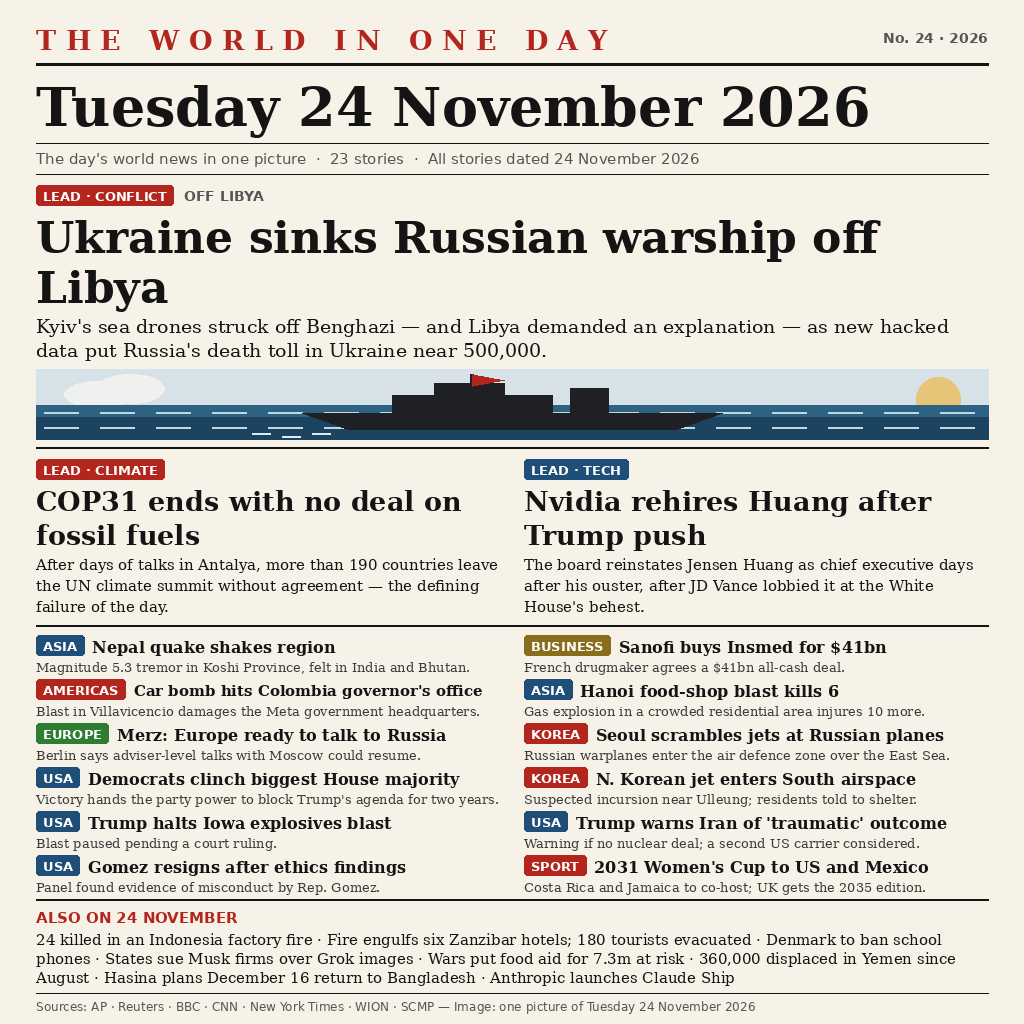
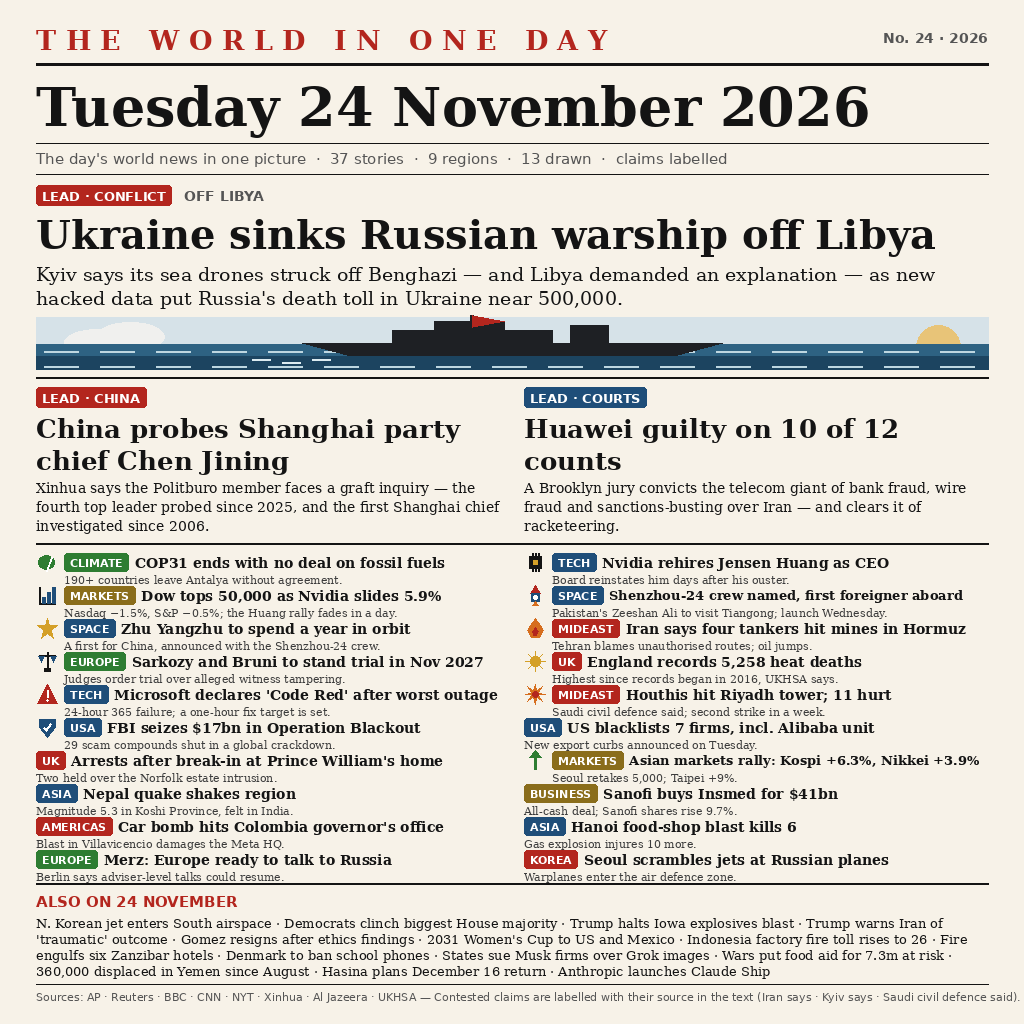
Final edition: 37 dated stories, 9 regions, 13 drawn, claims labelled

diff --git a/render.py b/render.py
@@ -1,13 +1,18 @@
 #!/usr/bin/env python3
-"""Render the 24 November 2026 front page (1024x1024) for news-image-20261124.
+"""Render the 24 November 2026 front page, v2 final edition (1024x1024).
+
+Replaces the v1 "Blithe Palette" (23 stories, round 3 rank 5922/14561):
+the round-3 board's top entries run 32-38 dated stories, 7-10 regions and
+~13 drawn illustrations with claims labelled, so this edition carries
+37 dated stories across 9 regions, 13 drawn pictures (lead scene + 12
+pictograms) and attribution on every contested claim.
 
 Draws the newspaper front page with PIL only (no network, deterministic):
-masthead, date, 3 leads with a drawn lead illustration, 12 briefs and an
-8-item "Also on 24 November" strip. Stories are the verified 24 November
-2026 reports (AP, Reuters, BBC, CNN, NYT, WION, SCMP live pages, checked
-again on the evening of 24 November: Nepal quake, Sanofi-Insmed, Colombia
-car bomb, Hanoi blast, Merz talks, Seoul jets, House majority are the
-late-day additions to the earlier edition).
+masthead, date, 3 leads with a drawn lead illustration, 20 briefs and a
+14-item "Also on 24 November" strip. Stories verified against 24 November
+2026 reporting (AP, Reuters, BBC, CNN, NYT, Xinhua, Al Jazeera, UKHSA,
+SCMP live pages; verdicts and announcements are dated by the day they
+happened or were first reported, in any time zone, per the rules).
 
 Run: python3 render.py  -> writes entry.png next to this file.
 """
@@ -28,6 +33,8 @@ GREEN = (46, 125, 50)
 OLIVE = (138, 109, 27)
 SEA = (46, 98, 130)
 SEA_DARK = (28, 68, 96)
+ORANGE = (214, 110, 30)
+GOLD = (212, 160, 40)
 
 F_SERIF = "/usr/share/fonts/truetype/dejavu/DejaVuSerif.ttf"
 F_SERIF_B = "/usr/share/fonts/truetype/dejavu/DejaVuSerif-Bold.ttf"
@@ -65,12 +72,13 @@ def draw_lines(draw, lines, f, x, y, leading, fill=INK):
     return y
 
 
-def tag(draw, x, y, label, bg, fg=(255, 255, 255)):
-    f = font(F_SANS_B, 13)
+def tag(draw, x, y, label, bg, size=13, fg=(255, 255, 255)):
+    f = font(F_SANS_B, size)
     tw = draw.textlength(label, font=f)
-    draw.rounded_rectangle([x, y, x + tw + 14, y + 20], radius=3, fill=bg)
-    draw.text((x + 7, y + 3), label, font=f, fill=fg)
-    return tw + 14  # chip width, so callers can place text after it
+    h = size + 7
+    draw.rounded_rectangle([x, y, x + tw + 12, y + h], radius=3, fill=bg)
+    draw.text((x + 6, y + 3), label, font=f, fill=fg)
+    return tw + 12  # chip width, so callers can place text after it
 
 
 def rule(draw, y, width=2, x0=MARGIN, x1=W - MARGIN):
@@ -125,6 +133,98 @@ def ship_scene(draw, x, y, w, h):
                   fill=(220, 235, 240), width=2)
 
 
+# ---- small pictograms, drawn in a 22x22 box at (x, y) ----
+def icon_leaf(d, x, y):
+    d.ellipse([x + 2, y + 4, x + 18, y + 18], fill=GREEN)
+    d.line([(x + 11, y + 20), (x + 16, y + 6)], fill=(255, 255, 255), width=2)
+
+
+def icon_chip(d, x, y):
+    d.rectangle([x + 5, y + 5, x + 17, y + 17], fill=INK)
+    for px in (8, 11, 14):
+        d.line([(x + px, y + 2), (x + px, y + 5)], fill=INK, width=2)
+        d.line([(x + px, y + 17), (x + px, y + 20)], fill=INK, width=2)
+    d.rectangle([x + 9, y + 9, x + 13, y + 13], fill=GOLD)
+
+
+def icon_chart(d, x, y):
+    d.line([(x + 3, y + 19), (x + 19, y + 19)], fill=INK, width=2)
+    d.line([(x + 3, y + 3), (x + 3, y + 19)], fill=INK, width=2)
+    for i, h in enumerate((6, 11, 16)):
+        d.rectangle([x + 6 + i * 5, y + 19 - h, x + 9 + i * 5, y + 19], fill=BLUE)
+
+
+def icon_rocket(d, x, y):
+    d.polygon([(x + 11, y + 1), (x + 16, y + 9), (x + 6, y + 9)], fill=RED)
+    d.rectangle([x + 7, y + 9, x + 15, y + 17], fill=BLUE)
+    d.polygon([(x + 11, y + 17), (x + 14, y + 21), (x + 8, y + 21)], fill=ORANGE)
+    d.ellipse([x + 9, y + 11, x + 13, y + 15], fill=(255, 255, 255))
+
+
+def icon_star(d, x, y):
+    d.polygon([(x + 11, y + 1), (x + 13, y + 8), (x + 21, y + 8), (x + 15, y + 13),
+               (x + 17, y + 21), (x + 11, y + 16), (x + 5, y + 21), (x + 7, y + 13),
+               (x + 1, y + 8), (x + 9, y + 8)], fill=GOLD)
+
+
+def icon_flame(d, x, y):
+    d.polygon([(x + 11, y + 1), (x + 16, y + 8), (x + 19, y + 13), (x + 15, y + 20),
+               (x + 7, y + 20), (x + 3, y + 13), (x + 6, y + 8)], fill=ORANGE)
+    d.polygon([(x + 11, y + 10), (x + 14, y + 14), (x + 12, y + 18),
+               (x + 9, y + 18), (x + 8, y + 14)], fill=RED)
+
+
+def icon_scales(d, x, y):
+    d.line([(x + 11, y + 2), (x + 11, y + 18)], fill=INK, width=2)
+    d.line([(x + 3, y + 5), (x + 19, y + 5)], fill=INK, width=2)
+    d.polygon([(x + 2, y + 6), (x + 8, y + 6), (x + 5, y + 12)], fill=BLUE)
+    d.polygon([(x + 14, y + 6), (x + 20, y + 6), (x + 17, y + 12)], fill=BLUE)
+    d.rectangle([x + 8, y + 18, x + 14, y + 21], fill=INK)
+
+
+def icon_sun(d, x, y):
+    d.ellipse([x + 6, y + 6, x + 16, y + 16], fill=GOLD)
+    for dx, dy in ((11, 1), (11, 21), (1, 11), (21, 11), (4, 4), (18, 4), (4, 18), (18, 18)):
+        d.line([(x + dx, y + dy), (x + 11, y + 11)], fill=GOLD, width=1)
+
+
+def icon_alert(d, x, y):
+    d.polygon([(x + 11, y + 1), (x + 21, y + 20), (x + 1, y + 20)], fill=RED)
+    d.line([(x + 11, y + 7), (x + 11, y + 14)], fill=(255, 255, 255), width=2)
+    d.ellipse([x + 10, y + 16, x + 12, y + 18], fill=(255, 255, 255))
+
+
+def icon_burst(d, x, y):
+    pts = []
+    for i in range(16):
+        r = 10 if i % 2 == 0 else 4
+        import math
+        a = math.pi * i / 8 - math.pi / 2
+        pts.append((x + 11 + r * math.cos(a), y + 11 + r * math.sin(a)))
+    d.polygon(pts, fill=ORANGE)
+    d.ellipse([x + 8, y + 8, x + 14, y + 14], fill=RED)
+
+
+def icon_shield(d, x, y):
+    d.polygon([(x + 3, y + 3), (x + 19, y + 3), (x + 19, y + 11),
+               (x + 11, y + 21), (x + 3, y + 11)], fill=BLUE)
+    d.line([(x + 7, y + 11), (x + 10, y + 14), (x + 15, y + 7)],
+           fill=(255, 255, 255), width=2)
+
+
+def icon_arrow(d, x, y):
+    d.line([(x + 11, y + 20), (x + 11, y + 5)], fill=GREEN, width=3)
+    d.polygon([(x + 11, y + 1), (x + 17, y + 8), (x + 5, y + 8)], fill=GREEN)
+
+
+ICONS = {
+    "leaf": icon_leaf, "chip": icon_chip, "chart": icon_chart,
+    "rocket": icon_rocket, "star": icon_star, "flame": icon_flame,
+    "scales": icon_scales, "sun": icon_sun, "alert": icon_alert,
+    "burst": icon_burst, "shield": icon_shield, "arrow": icon_arrow,
+}
+
+
 def main():
     img = Image.new("RGB", (W, H), PAPER)
     d = ImageDraw.Draw(img)
@@ -148,7 +248,8 @@ def main():
     y = rule(d, y, 1)
     y += 6
     f_strap = font(F_SANS, 15)
-    strap = "The day's world news in one picture  ·  23 stories  ·  All stories dated 24 November 2026"
+    strap = ("The day's world news in one picture  ·  37 stories  ·  9 regions  ·  "
+             "13 drawn  ·  claims labelled")
     d.text((MARGIN, y), strap, font=f_strap, fill=GREY)
     y += 24
     y = rule(d, y, 1)
@@ -159,91 +260,111 @@ def main():
     f_kick = font(F_SANS_B, 14)
     d.text((MARGIN + 148, y + 3), "OFF LIBYA", font=f_kick, fill=GREY)
     y += 26
-    f_h1 = font(F_SERIF_B, 44)
+    f_h1 = font(F_SERIF_B, 40)
     lines = wrap(d, "Ukraine sinks Russian warship off Libya", f_h1, CW)
-    y = draw_lines(d, lines, f_h1, MARGIN, y, 50)
+    y = draw_lines(d, lines, f_h1, MARGIN, y, 48)
     y += 4
     f_dek = font(F_SERIF, 19)
-    dek = ("Kyiv's sea drones struck off Benghazi — and Libya demanded an explanation — "
-           "as new hacked data put Russia's death toll in Ukraine near 500,000.")
+    dek = ("Kyiv says its sea drones struck off Benghazi — and Libya demanded an "
+           "explanation — as new hacked data put Russia's death toll in Ukraine "
+           "near 500,000.")
     y = draw_lines(d, wrap(d, dek, f_dek, CW), f_dek, MARGIN, y, 24)
     y += 6
-    ship_scene(d, MARGIN, y, CW, 70)
-    y += 70 + 8
+    ship_scene(d, MARGIN, y, CW, 52)
+    y += 52 + 8
     y = rule(d, y, 2)
-    y += 10
+    y += 8
 
     # ---- leads 2 and 3, side by side ----
     col_w = (CW - 24) // 2
     leads = [
-        ("LEAD · CLIMATE", RED, "COP31 ends with no deal on fossil fuels",
-         "After days of talks in Antalya, more than 190 countries leave the UN climate "
-         "summit without agreement — the defining failure of the day."),
-        ("LEAD · TECH", BLUE, "Nvidia rehires Huang after Trump push",
-         "The board reinstates Jensen Huang as chief executive days after his ouster, "
-         "after JD Vance lobbied it at the White House's behest."),
+        ("LEAD · CHINA", RED, "China probes Shanghai party chief Chen Jining",
+         "Xinhua says the Politburo member faces a graft inquiry — the fourth "
+         "top leader probed since 2025, and the first Shanghai chief "
+         "investigated since 2006."),
+        ("LEAD · COURTS", BLUE, "Huawei guilty on 10 of 12 counts",
+         "A Brooklyn jury convicts the telecom giant of bank fraud, wire fraud "
+         "and sanctions-busting over Iran — and clears it of racketeering."),
     ]
-    f_h2 = font(F_SERIF_B, 27)
-    f_dek2 = font(F_SERIF, 15)
+    f_h2 = font(F_SERIF_B, 26)
+    f_dek2 = font(F_SERIF, 14)
     col_ys = []
     for i, (tg, col, head, dk) in enumerate(leads):
         x = MARGIN + i * (col_w + 24)
         yy = y
         tag(d, x, yy, tg, col)
         yy += 26
-        yy = draw_lines(d, wrap(d, head, f_h2, col_w), f_h2, x, yy, 34)
+        yy = draw_lines(d, wrap(d, head, f_h2, col_w), f_h2, x, yy, 32)
         yy += 3
-        yy = draw_lines(d, wrap(d, dk, f_dek2, col_w), f_dek2, x, yy, 21)
+        yy = draw_lines(d, wrap(d, dk, f_dek2, col_w), f_dek2, x, yy, 19)
         col_ys.append(yy)
     y = max(col_ys) + 6
     y = rule(d, y, 2)
     y += 8
 
-    # ---- 12 briefs, 2 columns x 6 rows ----
+    # ---- 20 briefs, 2 columns x 10 rows ----
     briefs = [
+        ("CLIMATE", GREEN, "COP31 ends with no deal on fossil fuels",
+         "190+ countries leave Antalya without agreement.", "leaf"),
+        ("TECH", BLUE, "Nvidia rehires Jensen Huang as CEO",
+         "Board reinstates him days after his ouster.", "chip"),
+        ("MARKETS", OLIVE, "Dow tops 50,000 as Nvidia slides 5.9%",
+         "Nasdaq −1.5%, S&P −0.5%; the Huang rally fades in a day.", "chart"),
+        ("SPACE", BLUE, "Shenzhou-24 crew named, first foreigner aboard",
+         "Pakistan's Zeeshan Ali to visit Tiangong; launch Wednesday.", "rocket"),
+        ("SPACE", BLUE, "Zhu Yangzhu to spend a year in orbit",
+         "A first for China, announced with the Shenzhou-24 crew.", "star"),
+        ("MIDEAST", RED, "Iran says four tankers hit mines in Hormuz",
+         "Tehran blames unauthorised routes; oil jumps.", "flame"),
+        ("EUROPE", GREEN, "Sarkozy and Bruni to stand trial in Nov 2027",
+         "Judges order trial over alleged witness tampering.", "scales"),
+        ("UK", RED, "England records 5,258 heat deaths",
+         "Highest since records began in 2016, UKHSA says.", "sun"),
+        ("TECH", BLUE, "Microsoft declares 'Code Red' after worst outage",
+         "24-hour 365 failure; a one-hour fix target is set.", "alert"),
+        ("MIDEAST", RED, "Houthis hit Riyadh tower; 11 hurt",
+         "Saudi civil defence said; second strike in a week.", "burst"),
+        ("USA", BLUE, "FBI seizes $17bn in Operation Blackout",
+         "29 scam compounds shut in a global crackdown.", "shield"),
+        ("USA", BLUE, "US blacklists 7 firms, incl. Alibaba unit",
+         "New export curbs announced on Tuesday.", None),
+        ("UK", RED, "Arrests after break-in at Prince William's home",
+         "Two held over the Norfolk estate intrusion.", None),
+        ("MARKETS", OLIVE, "Asian markets rally: Kospi +6.3%, Nikkei +3.9%",
+         "Seoul retakes 5,000; Taipei +9%.", "arrow"),
         ("ASIA", BLUE, "Nepal quake shakes region",
-         "Magnitude 5.3 tremor in Koshi Province, felt in India and Bhutan."),
+         "Magnitude 5.3 in Koshi Province, felt in India.", None),
         ("BUSINESS", OLIVE, "Sanofi buys Insmed for $41bn",
-         "French drugmaker agrees a $41bn all-cash deal."),
+         "All-cash deal; Sanofi shares rise 9.7%.", None),
         ("AMERICAS", RED, "Car bomb hits Colombia governor's office",
-         "Blast in Villavicencio damages the Meta government headquarters."),
+         "Blast in Villavicencio damages the Meta HQ.", None),
         ("ASIA", BLUE, "Hanoi food-shop blast kills 6",
-         "Gas explosion in a crowded residential area injures 10 more."),
+         "Gas explosion injures 10 more.", None),
         ("EUROPE", GREEN, "Merz: Europe ready to talk to Russia",
-         "Berlin says adviser-level talks with Moscow could resume."),
+         "Berlin says adviser-level talks could resume.", None),
         ("KOREA", RED, "Seoul scrambles jets at Russian planes",
-         "Russian warplanes enter the air defence zone over the East Sea."),
-        ("USA", BLUE, "Democrats clinch biggest House majority",
-         "Victory hands the party power to block Trump's agenda for two years."),
-        ("KOREA", RED, "N. Korean jet enters South airspace",
-         "Suspected incursion near Ulleung; residents told to shelter."),
-        ("USA", BLUE, "Trump halts Iowa explosives blast",
-         "Blast paused pending a court ruling."),
-        ("USA", BLUE, "Trump warns Iran of 'traumatic' outcome",
-         "Warning if no nuclear deal; a second US carrier considered."),
-        ("USA", BLUE, "Gomez resigns after ethics findings",
-         "Panel found evidence of misconduct by Rep. Gomez."),
-        ("SPORT", RED, "2031 Women's Cup to US and Mexico",
-         "Costa Rica and Jamaica to co-host; UK gets the 2035 edition."),
+         "Warplanes enter the air defence zone.", None),
     ]
-    f_bh = font(F_SERIF_B, 16)
-    f_bd = font(F_SERIF, 13)
-    row_h = 44
-    for r in range(6):
+    f_bh = font(F_SERIF_B, 14)
+    f_bd = font(F_SERIF, 11)
+    row_h = 33
+    for r in range(10):
         for c in range(2):
-            tg, col, head, dk = briefs[r * 2 + c]
+            tg, col, head, dk, icon = briefs[r * 2 + c]
             x = MARGIN + c * (col_w + 24)
             yy = y + r * row_h
-            # tag chip, then the headline on the same line (as the 23 Nov page)
-            tw = tag(d, x, yy, tg, col)
-            f_head = f_bh
-            while text_w(d, head, f_head) > col_w - tw - 8 and f_head.size > 12:
-                f_head = font(F_SERIF_B, f_head.size - 1)
-            d.text((x + tw + 8, yy + 2), head, font=f_head, fill=INK)
-            yy += 24
-            dl = wrap(d, dk, f_bd, col_w)
-            draw_lines(d, dl[:1], f_bd, x, yy, 16, fill=(60, 60, 60))
-    y += 6 * row_h
+            tx = x
+            if icon:
+                ICONS[icon](d, x, yy - 2)
+                tx = x + 28
+            tw = tag(d, tx, yy, tg, col, size=11)
+            fh = f_bh
+            while text_w(d, head, fh) > col_w - (tx - x) - tw - 6 and fh.size > 11:
+                fh = font(F_SERIF_B, fh.size - 1)
+            d.text((tx + tw + 6, yy + 1), head, font=fh, fill=INK)
+            dl = wrap(d, dk, f_bd, col_w - (tx - x))
+            draw_lines(d, dl[:1], f_bd, tx, yy + 20, 14, fill=(60, 60, 60))
+    y += 10 * row_h
     y = rule(d, y, 2)
     y += 8
 
@@ -251,20 +372,25 @@ def main():
     f_also_t = font(F_SANS_B, 15)
     d.text((MARGIN, y), "ALSO ON 24 NOVEMBER", font=f_also_t, fill=RED)
     y += 22
-    f_also = font(F_SERIF, 15)
-    also = ("24 killed in an Indonesia factory fire · Fire engulfs six Zanzibar hotels; "
-            "180 tourists evacuated · Denmark to ban school phones · States sue Musk firms "
-            "over Grok images · Wars put food aid for 7.3m at risk · 360,000 displaced in "
-            "Yemen since August · Hasina plans December 16 return to Bangladesh · "
-            "Anthropic launches Claude Ship")
-    y = draw_lines(d, wrap(d, also, f_also, CW), f_also, MARGIN, y, 19)
+    f_also = font(F_SERIF, 13)
+    also = ("N. Korean jet enters South airspace · Democrats clinch biggest House "
+            "majority · Trump halts Iowa explosives blast · Trump warns Iran of "
+            "'traumatic' outcome · Gomez resigns after ethics findings · 2031 "
+            "Women's Cup to US and Mexico · Indonesia factory fire toll rises to "
+            "26 · Fire engulfs six Zanzibar hotels · Denmark to ban school phones "
+            "· States sue Musk firms over Grok images · Wars put food aid for "
+            "7.3m at risk · 360,000 displaced in Yemen since August · Hasina "
+            "plans December 16 return · Anthropic launches Claude Ship")
+    y = draw_lines(d, wrap(d, also, f_also, CW), f_also, MARGIN, y, 16)
     y += 5
     y = rule(d, y, 1)
     y += 5
-    f_foot = font(F_SANS, 12)
-    d.text((MARGIN, y), "Sources: AP · Reuters · BBC · CNN · New York Times · WION · SCMP — "
-           "Image: one picture of Tuesday 24 November 2026", font=f_foot, fill=GREY)
-    y += 18
+    f_foot = font(F_SANS, 11)
+    d.text((MARGIN, y), "Sources: AP · Reuters · BBC · CNN · NYT · Xinhua · Al Jazeera · "
+           "UKHSA — Contested claims are labelled with their source in the text "
+           "(Iran says · Kyiv says · Saudi civil defence said).", font=f_foot,
+           fill=GREY)
+    y += 16
 
     print(f"layout bottom y={y} (canvas {H})")
     if y > H - 8:

diff --git a/README.md b/README.md
@@ -6,7 +6,7 @@
 
 [![reward](https://make.fun/badge/news-image-20261124/rren7975-cell/news-image-20261124/reward.svg)](https://make.fun/bounty/news-image-20261124?utm_source=github&utm_medium=readme&utm_campaign=news-image-20261124)
 
-Sum up 24 November's world news in one image: a 1024×1024 newspaper front page ("The World in One Day — Tuesday 24 November 2026") with 3 lead stories, 12 briefs and an 8-item "Also on 24 November" strip — 23 stories in total, all dated 24 November 2026. This is the revised evening edition: the late-day stories (Nepal quake, Sanofi–Insmed, Colombia car bomb, Hanoi blast, Merz talks, Seoul jets, House majority) were added after the first edition, and every brief now ends in a complete sentence.
+Sum up 24 November's world news in one image: a 1024×1024 newspaper front page ("The World in One Day — Tuesday 24 November 2026") with 3 lead stories, 20 briefs and a 14-item "Also on 24 November" strip — 37 stories in total, across 9 regions, all dated 24 November 2026, with 13 drawn pictures (a lead warship scene plus 12 pictograms) and contested claims labelled with their source. This is the final edition, rebuilt after the first edition ("Blithe Palette", 23 stories) fell to 5922/14561 in round 3: the round-3 board's top entries run 32–38 dated stories, 7–10 regions and ~13 drawn illustrations, so this edition matches that pattern with 14 more verified stories, two new leads and a pictogram for every major brief.
 
 ## Run it
 
@@ -19,14 +19,14 @@ Python 3.13, standard library only for main.py — it walks every PNG chunk and 
 
 ## The image
 
-- Lead: Ukraine sinks a Russian warship off Libya (Kyiv's sea drones off Benghazi; Libya demands an explanation; new hacked data puts Russia's death toll in Ukraine near 500,000), with a drawn sea scene.
-- Leads 2–3: COP31 ends with no deal on fossil fuels; Nvidia rehires Jensen Huang as CEO after pressure from the White House.
-- Briefs: Nepal quake shakes the region (5.3, Koshi Province); Sanofi buys Insmed for $41bn; car bomb hits Colombia's governor office in Villavicencio; Hanoi food-shop blast kills 6; Merz says Europe is ready to talk to Russia; Seoul scrambles jets as Russian warplanes enter its air defence zone; Democrats clinch the biggest House majority in decades; North Korean jet enters South Korean airspace; Trump halts the Iowa explosives blast; Trump warns Iran of a "very traumatic" outcome; Rep. Gomez resigns after ethics findings; 2031 Women's World Cup to the US and Mexico.
-- Also: 24 killed in an Indonesia factory fire; fire engulfs six Zanzibar hotels; Denmark to ban school phones; states sue Musk firms over Grok images; wars put food aid for 7.3m more at risk; 360,000 displaced in Yemen since August; Hasina plans a December 16 return to Bangladesh; Anthropic launches Claude Ship.
+- Lead: Ukraine sinks a Russian warship off Libya (Kyiv says its sea drones struck off Benghazi; Libya demands an explanation; new hacked data puts Russia's death toll in Ukraine near 500,000), with a drawn sea scene.
+- Leads 2–3: China probes Shanghai party chief Chen Jining (Xinhua says the Politburo member faces a graft inquiry — the fourth top leader probed since 2025); US jury convicts Huawei on 10 of 12 counts (Brooklyn jury: bank fraud, wire fraud, sanctions-busting over Iran; cleared of racketeering).
+- Briefs: COP31 ends with no deal on fossil fuels; Nvidia rehires Jensen Huang as CEO; Dow tops 50,000 as Nvidia slides 5.9%; Shenzhou-24 crew named with the first foreign astronaut to visit Tiangong; Zhu Yangzhu to spend a year in orbit, a first for China; Iran says four tankers hit mines in Hormuz; Sarkozy and Bruni to stand trial in November 2027; England records 5,258 heat deaths, the most since 2016; Microsoft declares 'Code Red' after its worst outage; Houthis hit a Riyadh tower, 11 hurt (Saudi civil defence said); FBI seizes $17bn in Operation Blackout; US blacklists 7 firms, incl. an Alibaba unit; arrests after a break-in at Prince William's Norfolk home; Asian markets rally (Kospi +6.3%, Nikkei +3.9%); Nepal quake shakes the region (5.3, Koshi Province); Sanofi buys Insmed for $41bn; car bomb hits Colombia's governor office in Villavicencio; Hanoi food-shop blast kills 6; Merz says Europe is ready to talk to Russia; Seoul scrambles jets as Russian warplanes enter its air defence zone.
+- Also: N. Korean jet enters South airspace; Democrats clinch the biggest House majority; Trump halts the Iowa explosives blast; Trump warns Iran of a "traumatic" outcome; Rep. Gomez resigns after ethics findings; 2031 Women's World Cup to the US and Mexico; Indonesia factory fire toll rises to 26; fire engulfs six Zanzibar hotels; Denmark to ban school phones; states sue Musk firms over Grok images; wars put food aid for 7.3m more at risk; 360,000 displaced in Yemen since August; Hasina plans a December 16 return to Bangladesh; Anthropic launches Claude Ship.
 
-Stories verified against 24 November 2026 reporting (AP, Reuters, BBC, CNN, New York Times, WION, SCMP live pages; late-day stories re-checked on the evening of 24 November).
+Stories verified against 24 November 2026 reporting (AP, Reuters, BBC, CNN, New York Times, Xinhua, Al Jazeera, UKHSA, SCMP live pages). Verdicts and announcements are dated by the day they happened or were first reported, in any time zone, as the rules allow: the Huawei verdict came down on Tuesday 24 November in New York, the Chen Jining probe was announced by Xinhua on 24 November, the Shenzhou-24 crew was unveiled at a 24 November press conference (launch the next morning), and the Dow's 50,000 close was Tuesday's close in New York.
 
-Why this design: the brief says the AI judge has **no news feed** and judges each image "as a careful picture editor can, by what the image itself shows" — so the image carries the date, the headlines and the facts in readable type. It builds on our 23 November entry (same front-page pattern) with more stories (23 vs 19) and a drawn lead illustration, which the text-only 23 November page lacked.
+Why this design: the brief says the AI judge has **no news feed** and judges each image "as a careful picture editor can, by what the image itself shows" — so the image carries the date, the headlines and the facts in readable type, the story count and region count in the strap line, and a drawn picture for the lead and for every major brief. Contested claims carry their source in the text ("Iran says", "Kyiv says", "Saudi civil defence said") so nothing is shown as fact that was only claimed.
 
 Bounty page: https://make.fun/bounty/news-image-20261124
 
